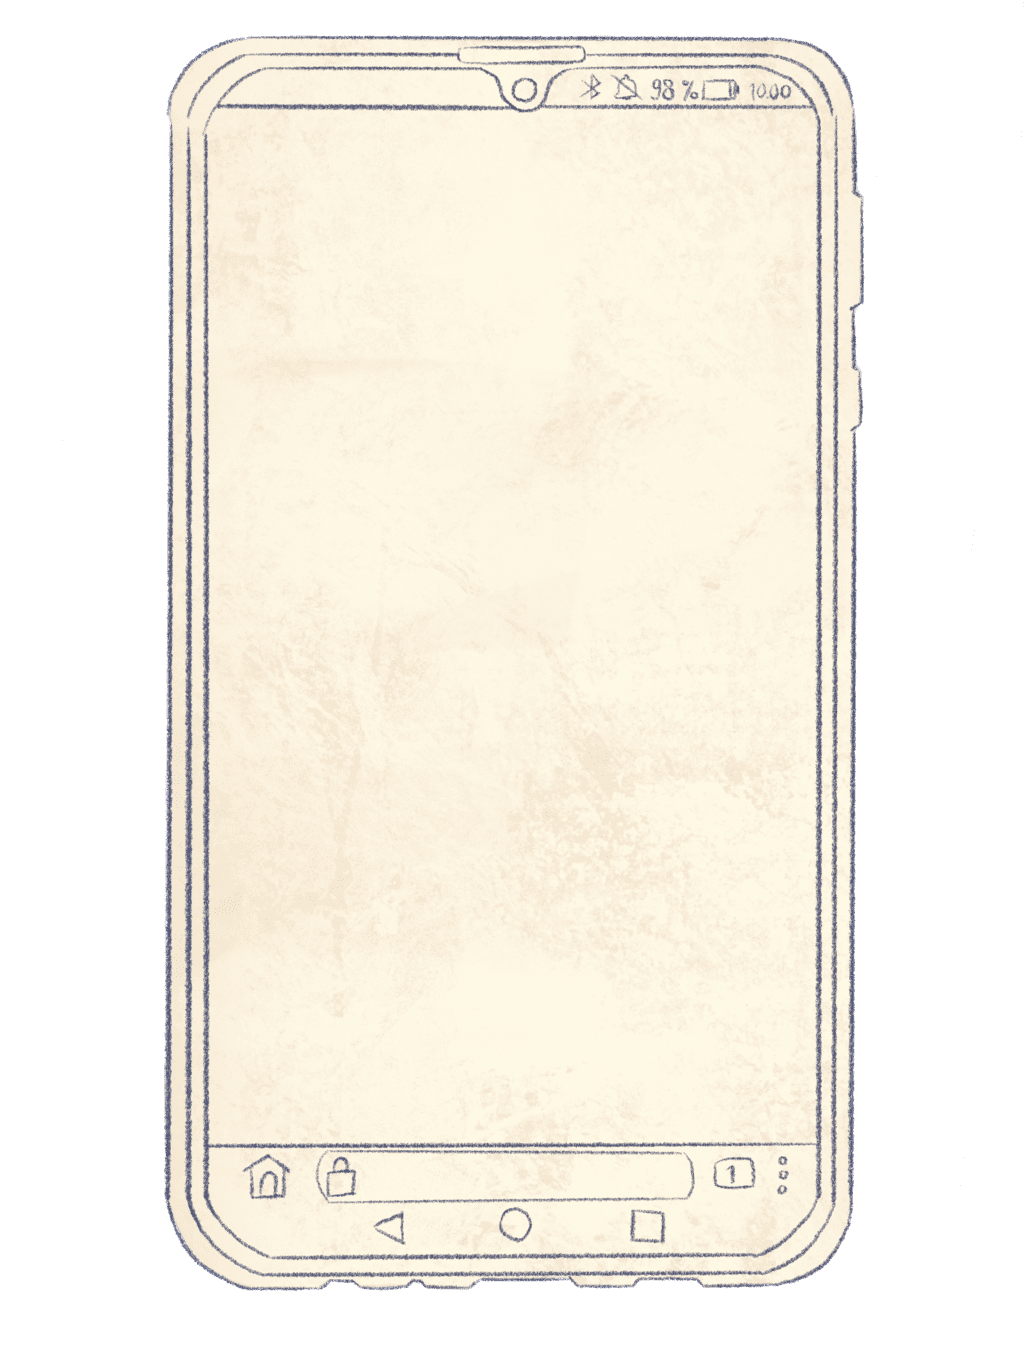
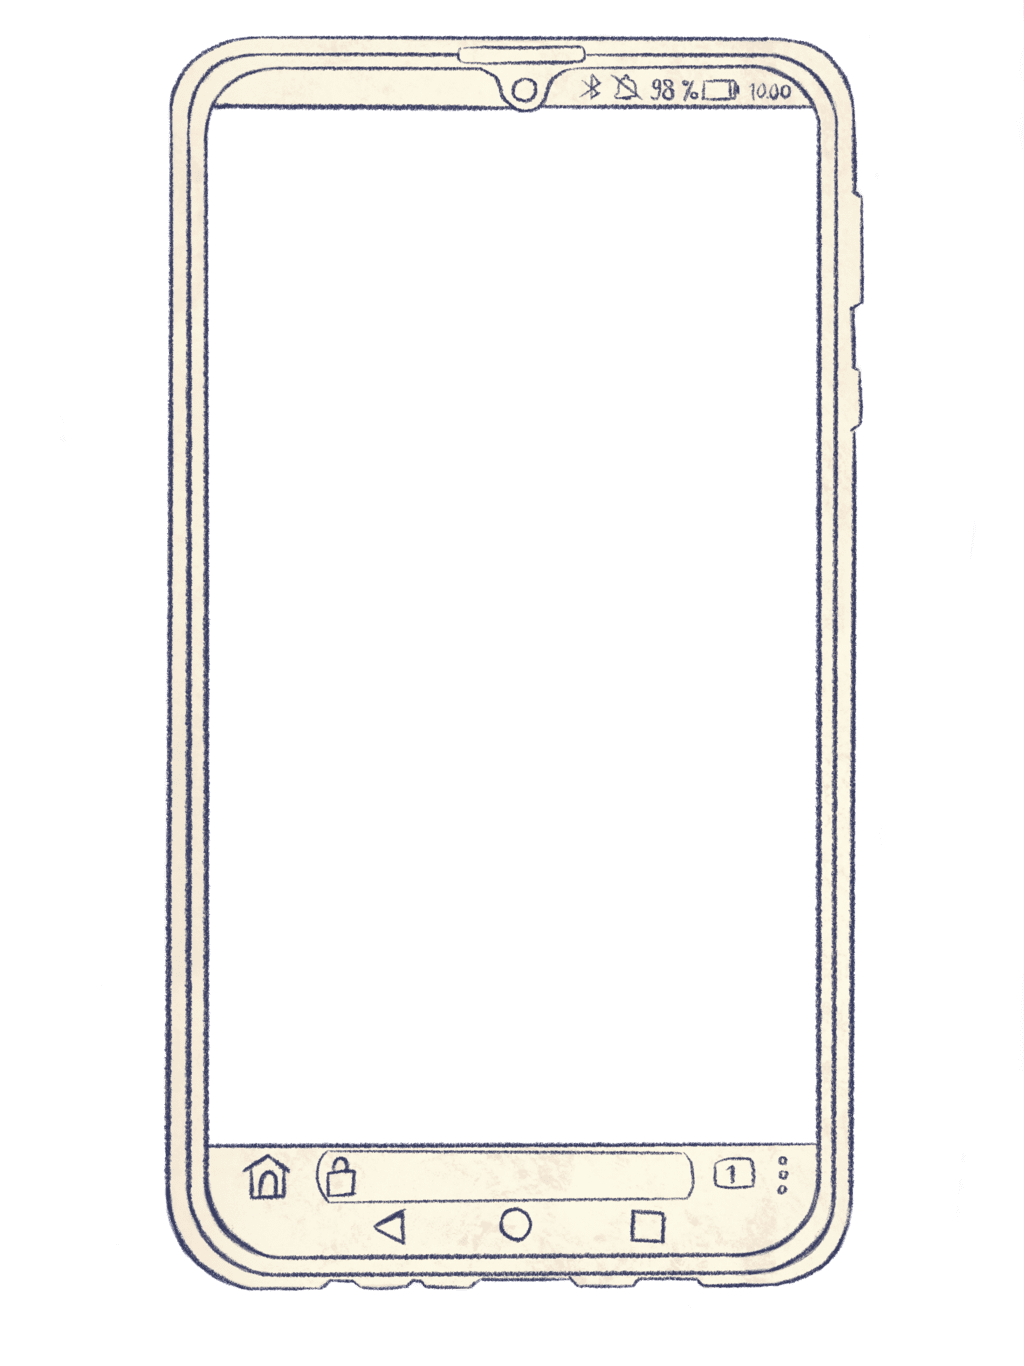
Add ads page background color select

diff --git a/css/passport-page-marketing.css b/css/passport-page-marketing.css
@@ -7,6 +7,17 @@
     top: 1rem;
     width: calc(100% + 3.6rem);
     pointer-events: none;
+    z-index: 1;
+  }
+  .marketing-phone-background-color {
+    position: absolute;
+    left: 9rem;
+    top: 5rem;
+    width: 35rem;
+    height: 61rem;
+    pointer-events: none;
+    background-color: rgb(var(--fill-color) / 1);
+    z-index: 1;
   }
   .marketing-phone-sticker-area {
     position: absolute;
@@ -96,7 +107,7 @@
     max-width: calc(140% + 6rem);
     height: 100%;
     padding: 3rem;
-    z-index: 2;
+    z-index: 3;
   }
   [data-phase="select-arguments"] .argument {
     --sticker-width: 10rem;
@@ -107,7 +118,7 @@
     position: relative;
     width: var(--sticker-width);
     cursor: grab;
-    z-index: 2;
+    z-index: 3;
   }
   [data-phase="select-arguments"] .argument .argument-shadow {
     position: absolute;
@@ -125,14 +136,37 @@
     top: 15rem;
     left: 8rem;
     width: 38rem;
-    z-index: 1;
+    z-index: 2;
+  }
+  .marketing-page-color-select {
+    display: flex;
+    flex-wrap: wrap;
+    justify-content: center;
+    gap: 2rem;
+    width: 100%;
+    margin-top: 6rem;
+    padding-left: 3rem;
+    padding-right: 3rem;
+  }
+  .marketing-page-color-button {
+    box-sizing: content-box;
+    width: 8rem;
+    height: 8rem;
+    margin: -0.6rem;
+    background-color: rgb(var(--fill-color) / 1);
+    border: 0.6rem solid #fff;
+    border-radius: 50%;
+    cursor: pointer;
+  }
+  .marketing-page-color-button.selected {
+    border-color: rgb(0 0 0 / 0.6);
   }
   .reaction-character {
     position: absolute;
     left: 70%;
     bottom: 1rem;
     width: 30rem;
-    z-index: 1;
+    z-index: 2;
   }
   .publish-button {
     position: absolute;
@@ -149,6 +183,13 @@
   .publish-button img {
     width: 15rem;
   }
+  .passport-page-marketing { --fill-color: 255 255 255; }
+  .passport-page-marketing [data-color="color-01"] { --fill-color: 252 232 181; }
+  .passport-page-marketing [data-color="color-02"] { --fill-color: 173 188 217; }
+  .passport-page-marketing [data-color="color-03"] { --fill-color: 183 214 180; }
+  .passport-page-marketing [data-color="color-04"] { --fill-color: 252 129 131; }
+  .passport-page-marketing [data-color="color-05"] { --fill-color: 251 172 139; }
+  .passport-page-marketing [data-color="color-06"] { --fill-color: 220 197 253; }
 }
 @layer hidden-elements {
   .marketing-page-phase:not(.active),
@@ -175,6 +216,7 @@
     [data-phase="select-product"],
     [data-phase="select-arguments"] .reaction-character,
     [data-phase="select-arguments"] .argument:not(.was-dragged),
+    .marketing-page-color-select,
     .publish-button {
       display: none;
     }

diff --git a/js/passport-page-marketing.js b/js/passport-page-marketing.js
@@ -9,6 +9,8 @@ const productSelectContainer = document.querySelector('.product-select');
 const argumentSelectContainer = document.querySelector('.argument-select');
 const argumentStickers = Array.from(document.querySelectorAll('[data-phase="select-arguments"] .argument img'));
 const argumentStickerArea = document.querySelector('.marketing-phone-sticker-area');
+const phoneBackgroundColorElement = document.querySelector('.marketing-phone-background-color');
+const colorSelectContainer = document.querySelector('.marketing-page-color-select');
 const publishButton = document.querySelector('.passport-page-marketing .publish-button');
 const successSound = new Audio('assets/sound-success.mp3');
 const failureSound = new Audio('assets/sound-failure.mp3');
@@ -21,6 +23,7 @@ let selectedReaction = '';
 new Hammer(continueButton).on('doubletap', handleContinue);
 characterSelectPhaseContainer.addEventListener('click', handleCharacterSelect);
 productSelectContainer.addEventListener('click', handleProductSelect);
+colorSelectContainer.addEventListener('click', handleColorSelect);
 new Hammer(publishButton).on('doubletap', handlePublish);
 
 //
@@ -168,4 +171,27 @@ function handlePublish() {
 function convertPixelsToRem(px) {
   const remBase = parseFloat(getComputedStyle(document.documentElement).fontSize);
   return px * (1 / remBase);
+}
+
+//
+// Background color select
+//
+
+function handleColorSelect(event) {
+  const colorElement = event.target.closest('[data-color]');
+  if ( ! colorElement) {
+    return;
+  }
+  if (colorElement.classList.contains('selected')) {
+    colorElement.classList.remove('selected');
+    phoneBackgroundColorElement.removeAttribute('data-color');
+    return;
+  }
+  const previouslySelected = passportPageMarketing.querySelector('.marketing-page-color-button.selected');
+  if (previouslySelected) {
+    previouslySelected.classList.remove('selected')
+  }
+  colorElement.classList.add('selected');
+  const selectedColor = colorElement.getAttribute('data-color');
+  phoneBackgroundColorElement.setAttribute('data-color', selectedColor);
 }

diff --git a/index.html b/index.html
@@ -71,6 +71,7 @@
     <!-- Page: Marketing and advertising -->
     <div class="passport-page passport-page-marketing">
       <img class="passport-page-background" src="assets/passport-page-marketing.png" draggable="false">
+      <div class="marketing-phone-background-color"></div>
       <img class="marketing-phone-background" src="assets/marketing-phone.png" draggable="false">
       <div class="marketing-phone-sticker-area"></div>
       <div class="marketing-page-phase active" data-phase="select-character">
@@ -129,6 +130,14 @@
           <div class="argument"><img src="assets/sticker-sun.png" draggable="false"></div>
           <div class="argument"><img src="assets/sticker-thumb-up.png" draggable="false"></div>
           <div class="argument"><img src="assets/sticker-very-happy.png" draggable="false"></div>
+          <div class="marketing-page-color-select">
+            <div class="marketing-page-color-button" data-color="color-01"></div>
+            <div class="marketing-page-color-button" data-color="color-02"></div>
+            <div class="marketing-page-color-button" data-color="color-03"></div>
+            <div class="marketing-page-color-button" data-color="color-04"></div>
+            <div class="marketing-page-color-button" data-color="color-05"></div>
+            <div class="marketing-page-color-button" data-color="color-06"></div>
+          </div>
         </div>
         <img class="reaction-character" data-character="raccoon" data-reaction="neutral" src="assets/marketing-character-reaction-raccoon-neutral.png" draggable="false">
         <img class="reaction-character" data-character="raccoon" data-reaction="happy" src="assets/marketing-character-reaction-raccoon-happy.png" draggable="false">
